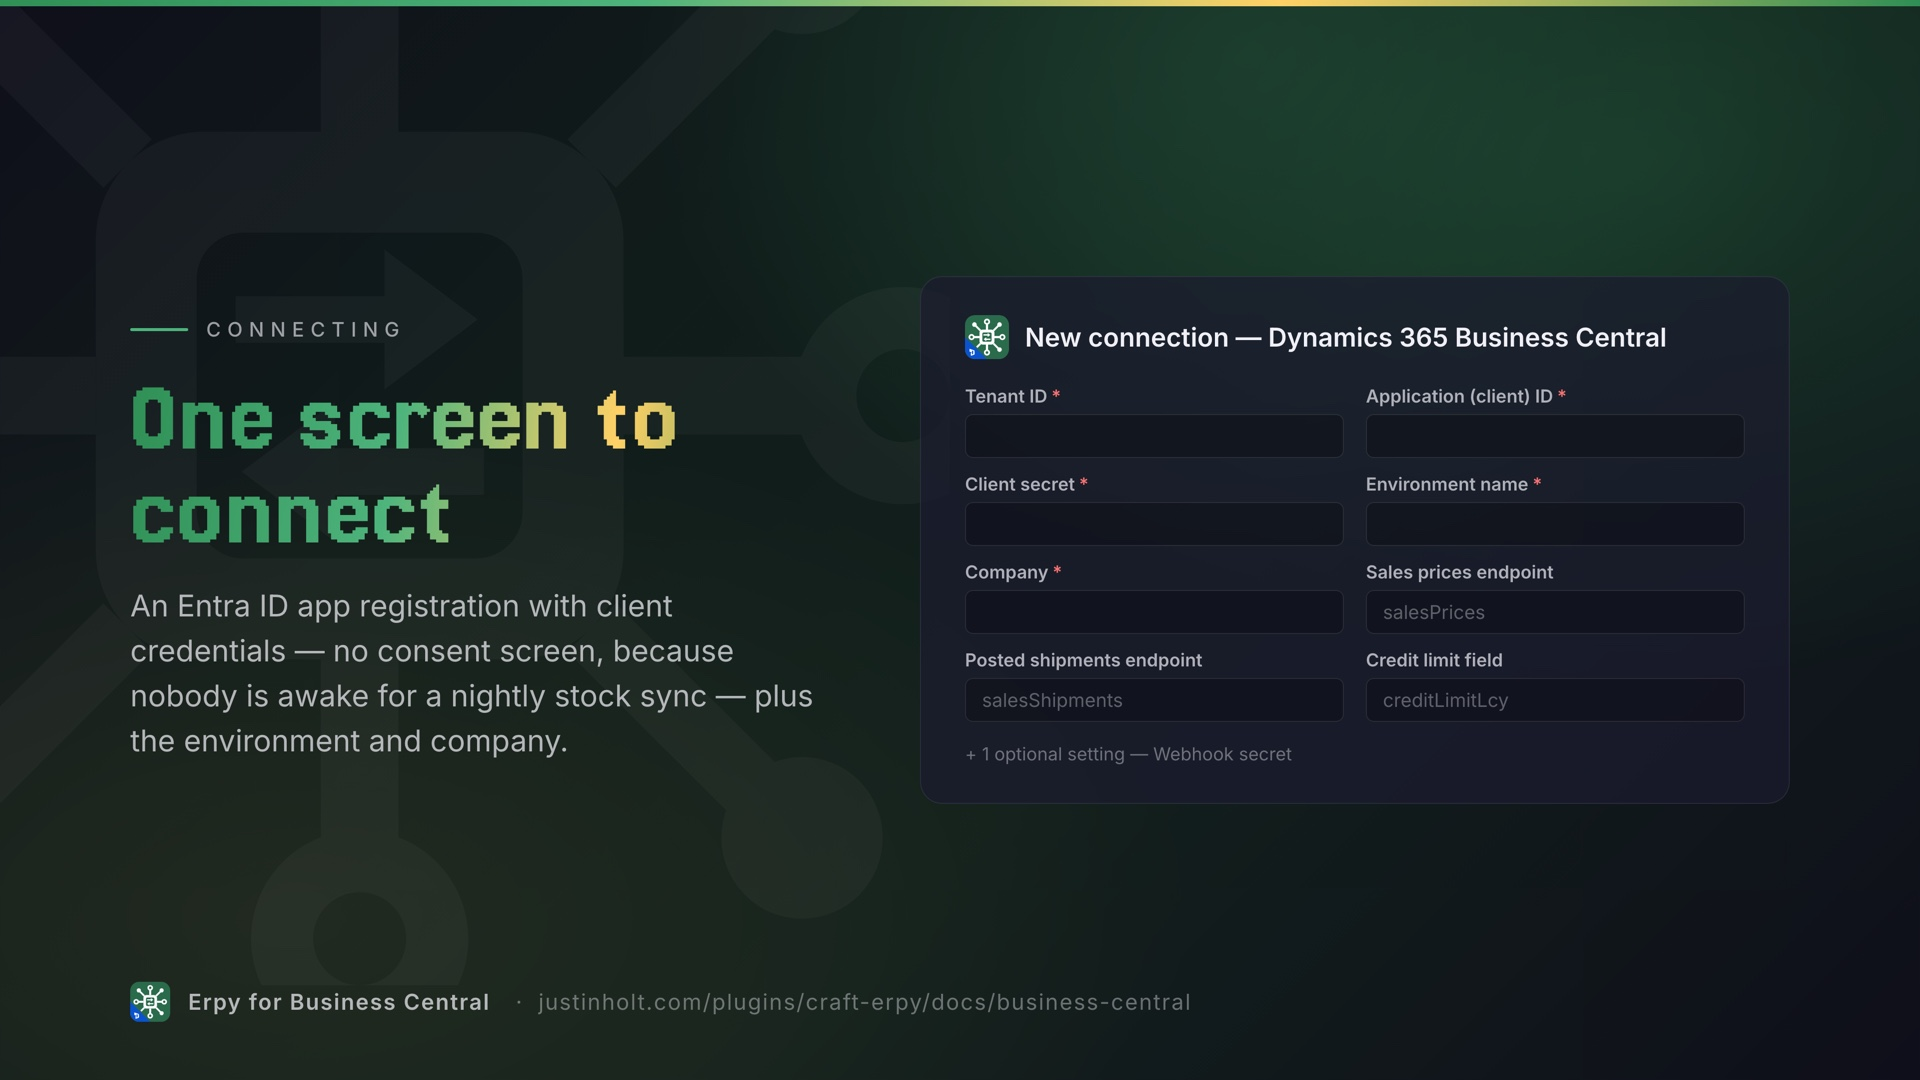
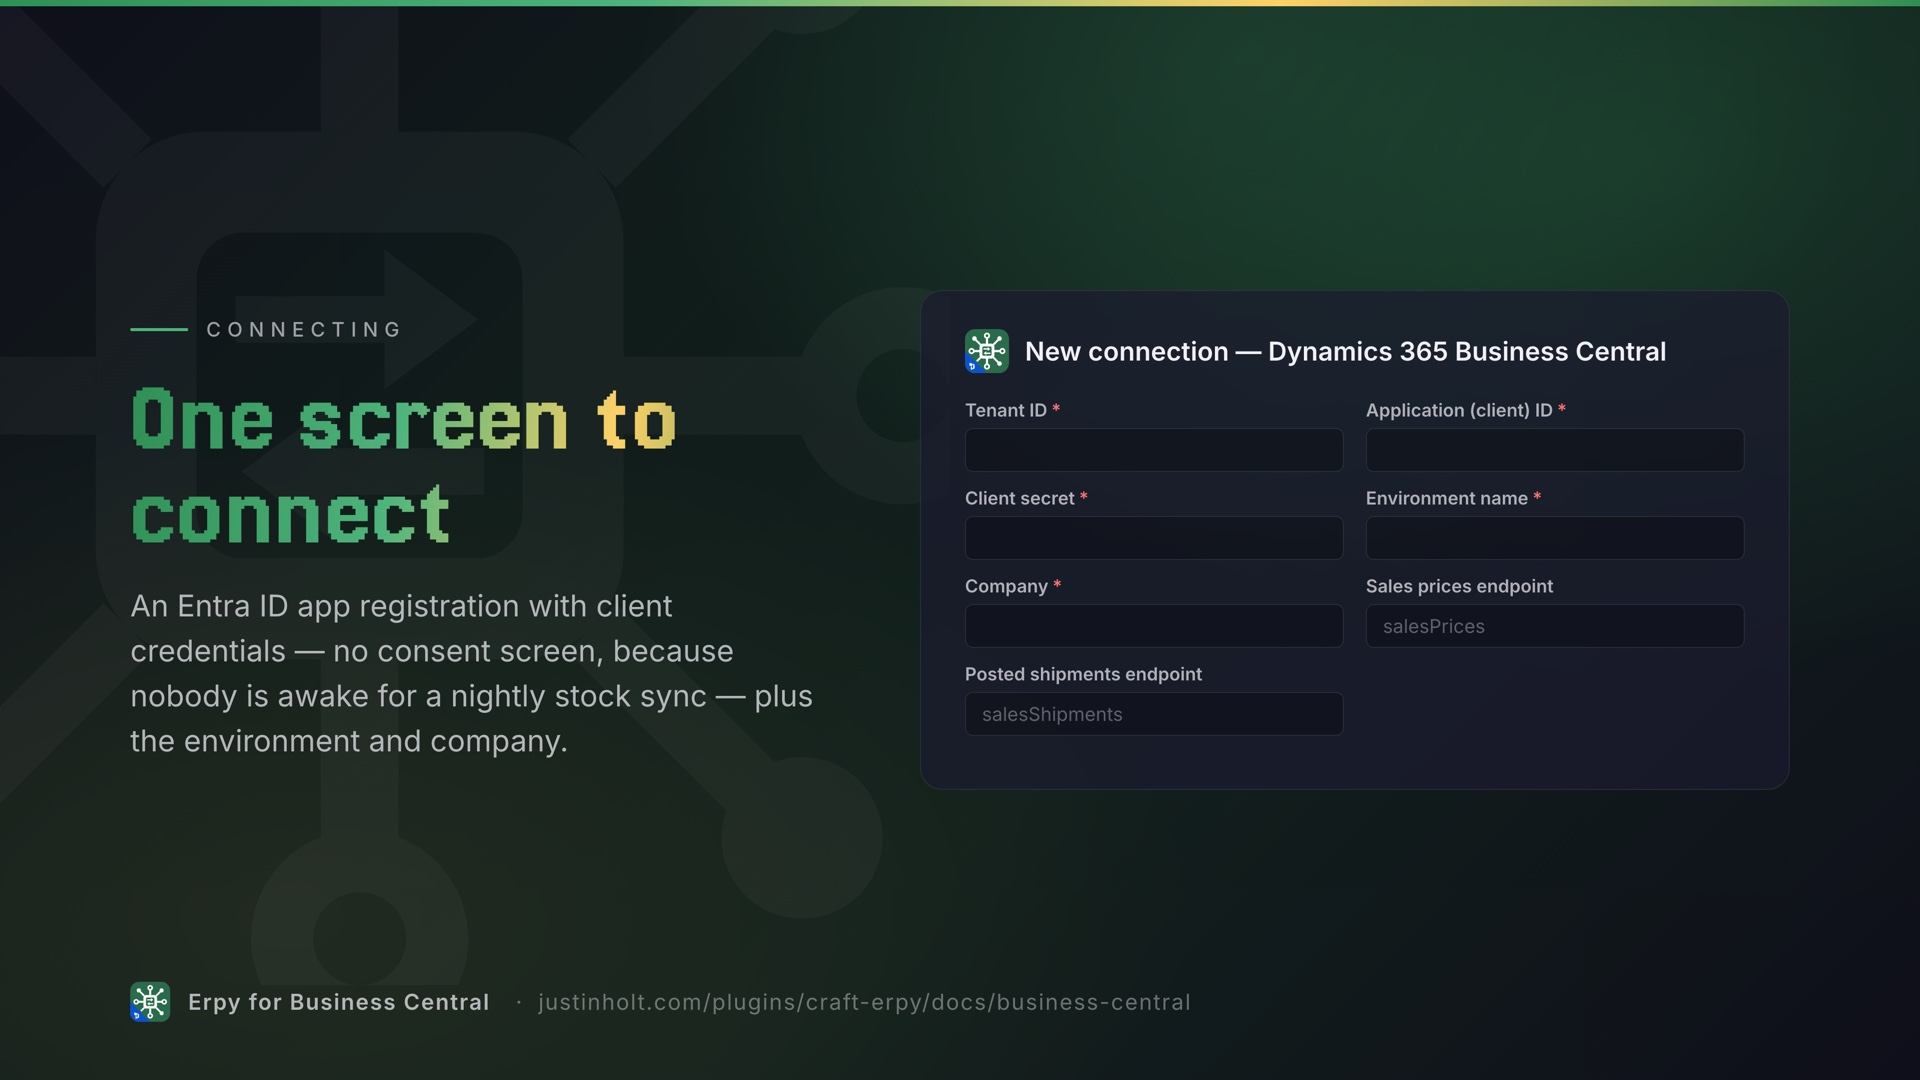
Promos

diff --git a/promos/slides.html b/promos/slides.html
@@ -185,8 +185,8 @@
       </div>
       <div class="form panel">
         <div class="title"><img src="assets/icon.svg" alt=""> New connection &mdash; Dynamics 365 Business Central</div>
-        <div class="cols"><div class="field"><label>Tenant ID<i>*</i></label><div class="input"></div></div><div class="field"><label>Application (client) ID<i>*</i></label><div class="input"></div></div><div class="field"><label>Client secret<i>*</i></label><div class="input"></div></div><div class="field"><label>Environment name<i>*</i></label><div class="input"></div></div><div class="field"><label>Company<i>*</i></label><div class="input"></div></div><div class="field"><label>Sales prices endpoint</label><div class="input">salesPrices</div></div><div class="field"><label>Posted shipments endpoint</label><div class="input">salesShipments</div></div><div class="field"><label>Credit limit field</label><div class="input">creditLimitLcy</div></div></div>
-        <div class="more">+ 1 optional setting — Webhook secret</div>
+        <div class="cols"><div class="field"><label>Tenant ID<i>*</i></label><div class="input"></div></div><div class="field"><label>Application (client) ID<i>*</i></label><div class="input"></div></div><div class="field"><label>Client secret<i>*</i></label><div class="input"></div></div><div class="field"><label>Environment name<i>*</i></label><div class="input"></div></div><div class="field"><label>Company<i>*</i></label><div class="input"></div></div><div class="field"><label>Sales prices endpoint</label><div class="input">salesPrices</div></div><div class="field"><label>Posted shipments endpoint</label><div class="input">salesShipments</div></div></div>
+        
       </div>
     </div>
   </div>

diff --git a/src/connectors/BusinessCentralConnector.php b/src/connectors/BusinessCentralConnector.php
@@ -458,10 +458,10 @@ class BusinessCentralConnector extends Connector
         // Business Central has no idempotency key, so the external document number does the job:
         // it is indexed, it is what the merchant will search for, and asking first is far cheaper
         // than explaining a duplicate order to a warehouse.
-        $existing = $this->findOrderByExternalNumber($document->orderNumber);
+        $existing = $this->findOrderByExternalNumber($this->externalDocumentNumber($document->orderNumber));
 
         if ($existing !== null && $remoteId === null) {
-            return PushResult::alreadyExists((string)$existing['id'], (string)($existing['number'] ?? ''));
+            return PushResult::alreadyExists((string)($existing['id'] ?? ''), (string)($existing['number'] ?? ''));
         }
 
         if ($document->customerCode === null || $document->customerCode === '') {
@@ -470,7 +470,7 @@ class BusinessCentralConnector extends Connector
 
         $payload = array_filter([
             'customerNumber' => $document->customerCode,
-            'externalDocumentNumber' => mb_substr($document->orderNumber, 0, 35),
+            'externalDocumentNumber' => $this->externalDocumentNumber($document->orderNumber),
             'orderDate' => $document->orderedAt?->format('Y-m-d'),
             'currencyCode' => $document->currency,
             'billToName' => $document->billingAddress?->fullName,
@@ -545,6 +545,20 @@ class BusinessCentralConnector extends Connector
         ], static fn($value) => $value !== null && $value !== '');
     }
 
+    /**
+     * The value written to `externalDocumentNumber`, looked up by a retry and compared against
+     * what comes back: the Commerce number, cut to the field's 35 characters.
+     */
+    private function externalDocumentNumber(string $orderNumber): string
+    {
+        return mb_substr($orderNumber, 0, 35);
+    }
+
+    /**
+     * The sales order already carrying this external document number, or null. Every returned
+     * row is compared as well as filtered for: an API page that ignores or mis-applies `$filter`
+     * must not turn every order after the first into a duplicate of whatever it returned.
+     */
     private function findOrderByExternalNumber(string $number): ?array
     {
         $company = $this->company();
@@ -556,12 +570,18 @@ class BusinessCentralConnector extends Connector
         $response = $this->transport()->get("companies($company)/salesOrders", [
             '$filter' => sprintf("externalDocumentNumber eq '%s'", $this->escape($number)),
             '$select' => 'id,number,externalDocumentNumber',
-            '$top' => 1,
+            '$top' => 20,
         ]);
 
         $rows = $response->ok() ? $response->at('value', []) : [];
 
-        return $rows[0] ?? null;
+        foreach (is_array($rows) ? $rows : [] as $row) {
+            if (is_array($row) && (string)($row['externalDocumentNumber'] ?? '') === $number) {
+                return $row;
+            }
+        }
+
+        return null;
     }
 
     private function rejectionOrFailure($response): PushResult
